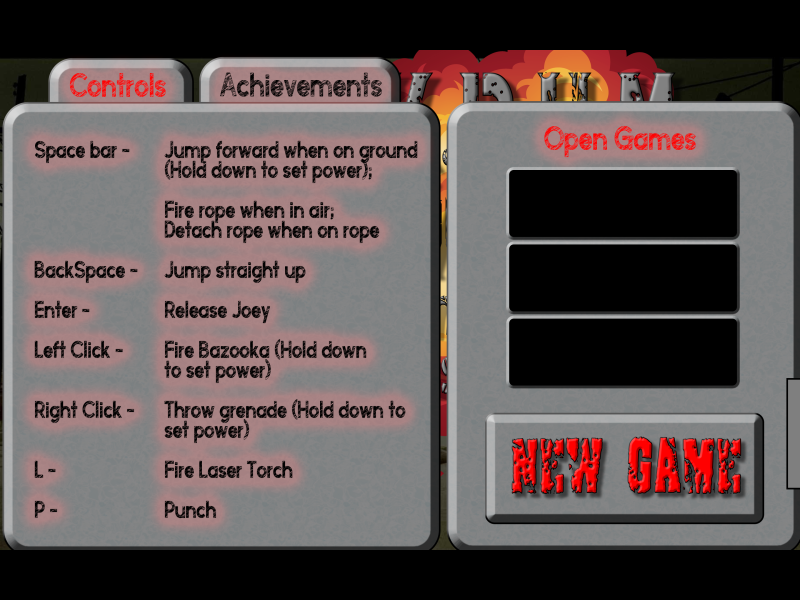
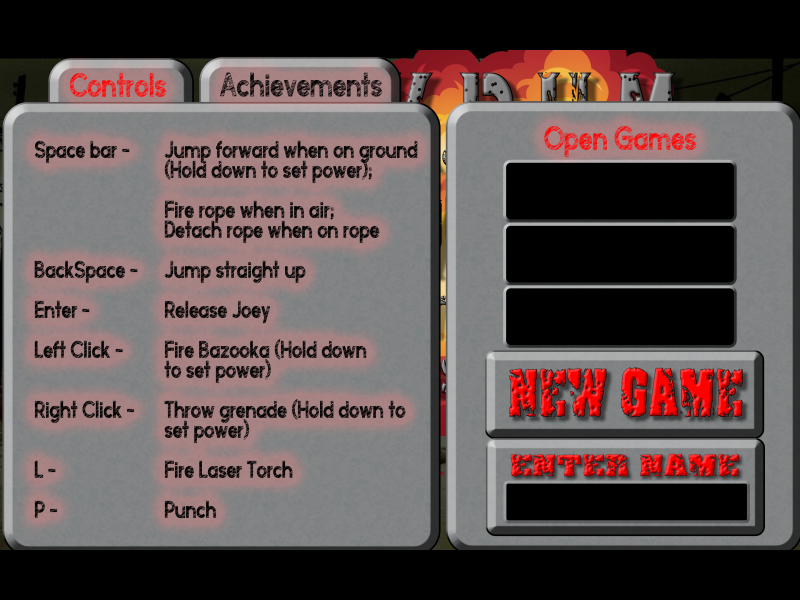
updated title screen namefield and button positions

diff --git a/javaprojects/client/src/main/java/minigames/client/krumgame/KrumMenu.java b/javaprojects/client/src/main/java/minigames/client/krumgame/KrumMenu.java
@@ -12,19 +12,21 @@ import javax.swing.JTextField;
 public class KrumMenu {
 
     // buttonBounds should be changed if we move a button (not including the open game buttons, i.e. the clickable names that join a specific game)
-    final static Rectangle[] buttonBounds = {   new Rectangle(485, 414, 277, 108),      // newgame (x, y, width, height)
+    final static Rectangle[] buttonBounds = {   new Rectangle(485, 350, 277, 87),      // newgame (x, y, width, height)
                                                 new Rectangle(50, 60, 142, 42),         // instructions (x, y, width, height)
                                                 new Rectangle(200, 59, 200, 43),        // achievements (x, y, width, height)
-                                                new Rectangle(100, 416, 293, 123),      // quickplay (x, y, width, height)
-                                                new Rectangle(400, 416, 293, 123)   };  // options (x, y, width, height)
+                                                new Rectangle(100, 416, 293, 87),      // quickplay (x, y, width, height)
+                                                new Rectangle(400, 416, 293, 87)   };  // options (x, y, width, height)
 
     // nameFieldBounds can be changed to move or resize the name input field
-    final static Rectangle nameFieldBounds = new Rectangle(373, 10, 54, 30); // x, y, width, height
+    final public static Rectangle nameFieldBoundsDefault = new Rectangle(373, 10, 54, 30); // x, y, width, height
+    final public static Rectangle nameFieldBoundsTitle = new Rectangle(391, 518, 212, 27); // x, y, width, height
+    final public static Rectangle nameFieldBoundsInstructions = new Rectangle(507, 484, 239, 35); // x, y, width, height
     
     // these can be changed to tweak the open game buttons, i.e. the clickable names that join a specific game
-    public final static int gameListX = 525; // x position of the open game buttons
-    public final static int gameListYStart = 175; // y position of the first open game button
-    public final static int gameListYIncrement = 75; // vertical distance between top of one open game button and the next
+    public final static int gameListX = 520; // x position of the open game buttons
+    public final static int gameListYStart = 165; // y position of the first open game button
+    public final static int gameListYIncrement = 63; // vertical distance between top of one open game button and the next
     public final static int gameListWidth = 200; // width of the open game buttons
     public final static int gameListButtonHeight= 60; // height of each open game button
     public final static String gameListFontName = "Courier New";
@@ -69,6 +71,6 @@ public class KrumMenu {
         nameField = new JTextField(20);
         nameField.setText("Algernon");
         nameField.setLayout(null);
-        nameField.setBounds(nameFieldBounds);
+        nameField.setBounds(nameFieldBoundsDefault);
     } 
 }

diff --git a/javaprojects/client/src/main/java/minigames/client/MinigameNetworkClientWindow.java b/javaprojects/client/src/main/java/minigames/client/MinigameNetworkClientWindow.java
@@ -309,7 +309,8 @@ public class MinigameNetworkClientWindow {
         });
         screen.add(instructionsButton);
         screen.add(krumNewGameButton());
-        krumListGames(screen, games);        
+        krumListGames(screen, games);    
+        KrumMenu.nameField.setBounds(KrumMenu.nameFieldBoundsInstructions);     
         screen.add(KrumMenu.nameField);
         center.add(screen);
         pack();
@@ -326,6 +327,7 @@ public class MinigameNetworkClientWindow {
         screen.add(achievementsButton); 
         screen.add(krumNewGameButton());     
         krumListGames(screen, games);
+        KrumMenu.nameField.setBounds(KrumMenu.nameFieldBoundsInstructions); 
         screen.add(KrumMenu.nameField);
         center.add(screen);
         pack();
@@ -359,7 +361,8 @@ public class MinigameNetworkClientWindow {
             }            
             return;
         });
-        screen.add(quickPlayButton);    
+        screen.add(quickPlayButton);  
+        KrumMenu.nameField.setBounds(KrumMenu.nameFieldBoundsTitle);  
         screen.add(KrumMenu.nameField);     
         center.add(screen);
         pack();
